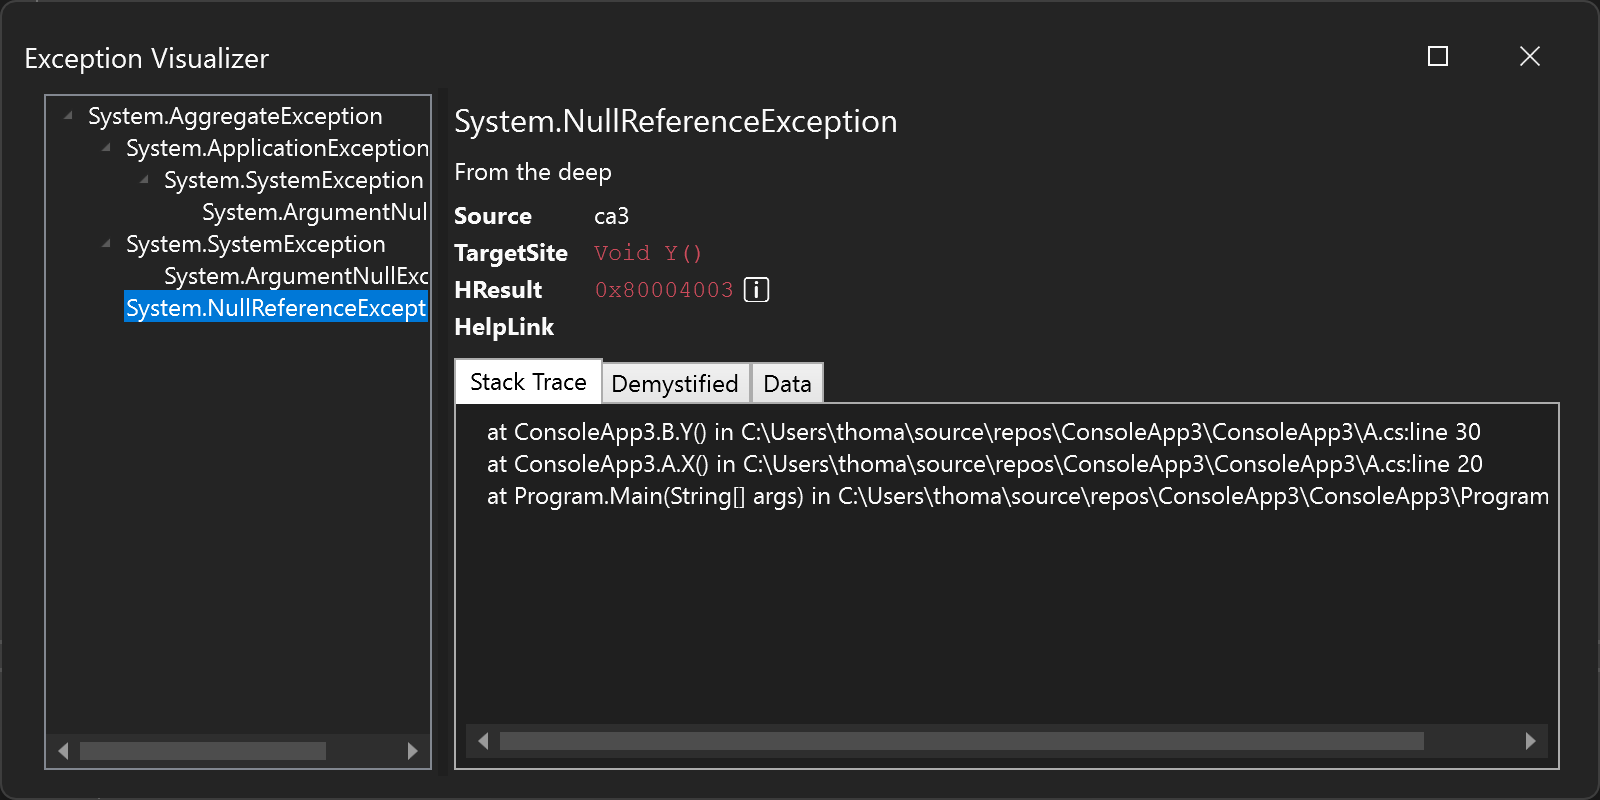
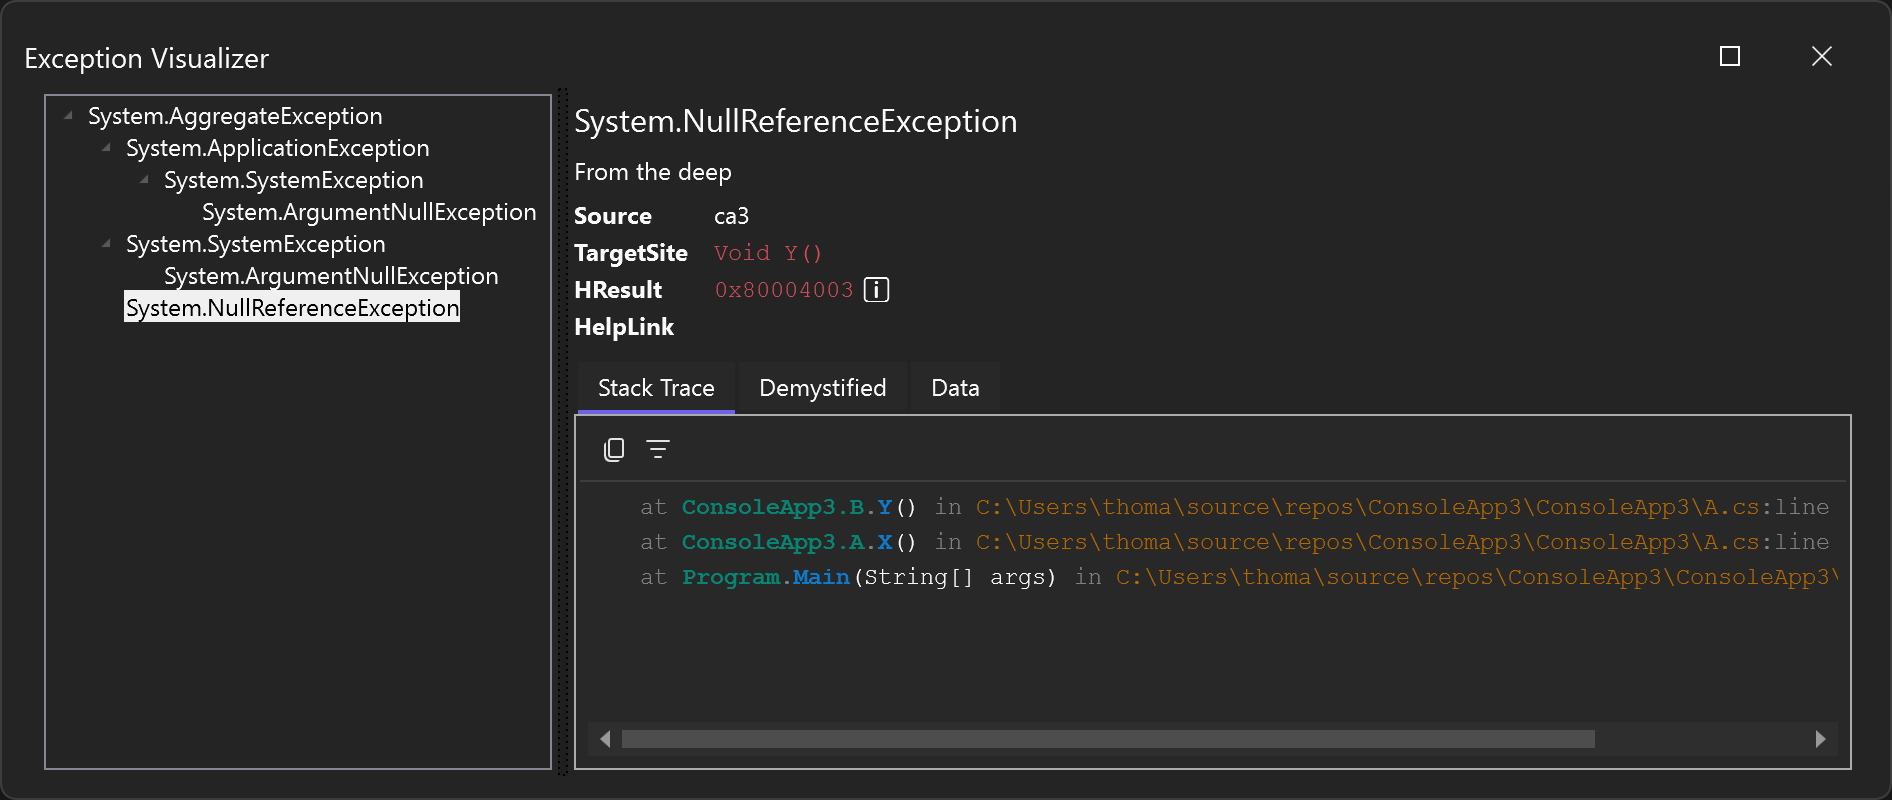
Readme updated

diff --git a/README.md b/README.md
@@ -1,6 +1,12 @@
-# <img src="src/ExceptionVisualizer/icon.png" style="height: 1em; width: 1em;"> Exception Visualizer [![Build](https://github.com/elmahio/ExceptionVisualizer/actions/workflows/dotnet.yml/badge.svg)](https://github.com/elmahio/ExceptionVisualizer/actions) [![Visual Studio Marketplace Downloads](https://img.shields.io/visual-studio-marketplace/d/elmahio.exceptioninspector)](https://marketplace.visualstudio.com/items?itemName=elmahio.exceptioninspector)
+# <img src="src/ExceptionVisualizer/icon.png" style="height: 1em; width: 1em;"> Exception Visualizer [![Build](https://github.com/elmahio/ExceptionVisualizer/actions/workflows/dotnet.yml/badge.svg)](https://github.com/elmahio/ExceptionVisualizer/actions)
 
 Exception Debug Visualizer for Visual Studio.
+
+## Install
+
+The extension can be installed directly from the *Extension Manager* window in Visual Studio or from the Visual Studio Marketplace: https://marketplace.visualstudio.com/items?itemName=elmahio.exceptioninspector.
+
+## Features
 
 When debugging applications and an exception is thrown you can view the exception details in a more structured and visually pleasing form:
 
@@ -14,9 +20,17 @@ Aggreate and inner exceptions are nested in the left side of the screen:
 
 ![Nested exceptions](screenshot3.png)
 
+The stack trace supports syntax highlighting, jump to code, copy, and show my code only toggle:
+
+![Formatted stack trace](screenshot4.png)
+
+Exception data and properties are shown when available:
+
+![Exception data and properties](screenshot5.png)
+
 The Exception Visualizer can be opened from the *Locals* or *QuickView* windows by clicking *View* next to the exception:
 
-![View Exception Visualizer](https://github.com/elmahio/ExceptionVisualizer/assets/563206/8dd68fc6-85f2-416d-a5b2-8f78de57fdbf)
+![View Exception Visualizer](screenshot6.png)
 
 ## Updating
 